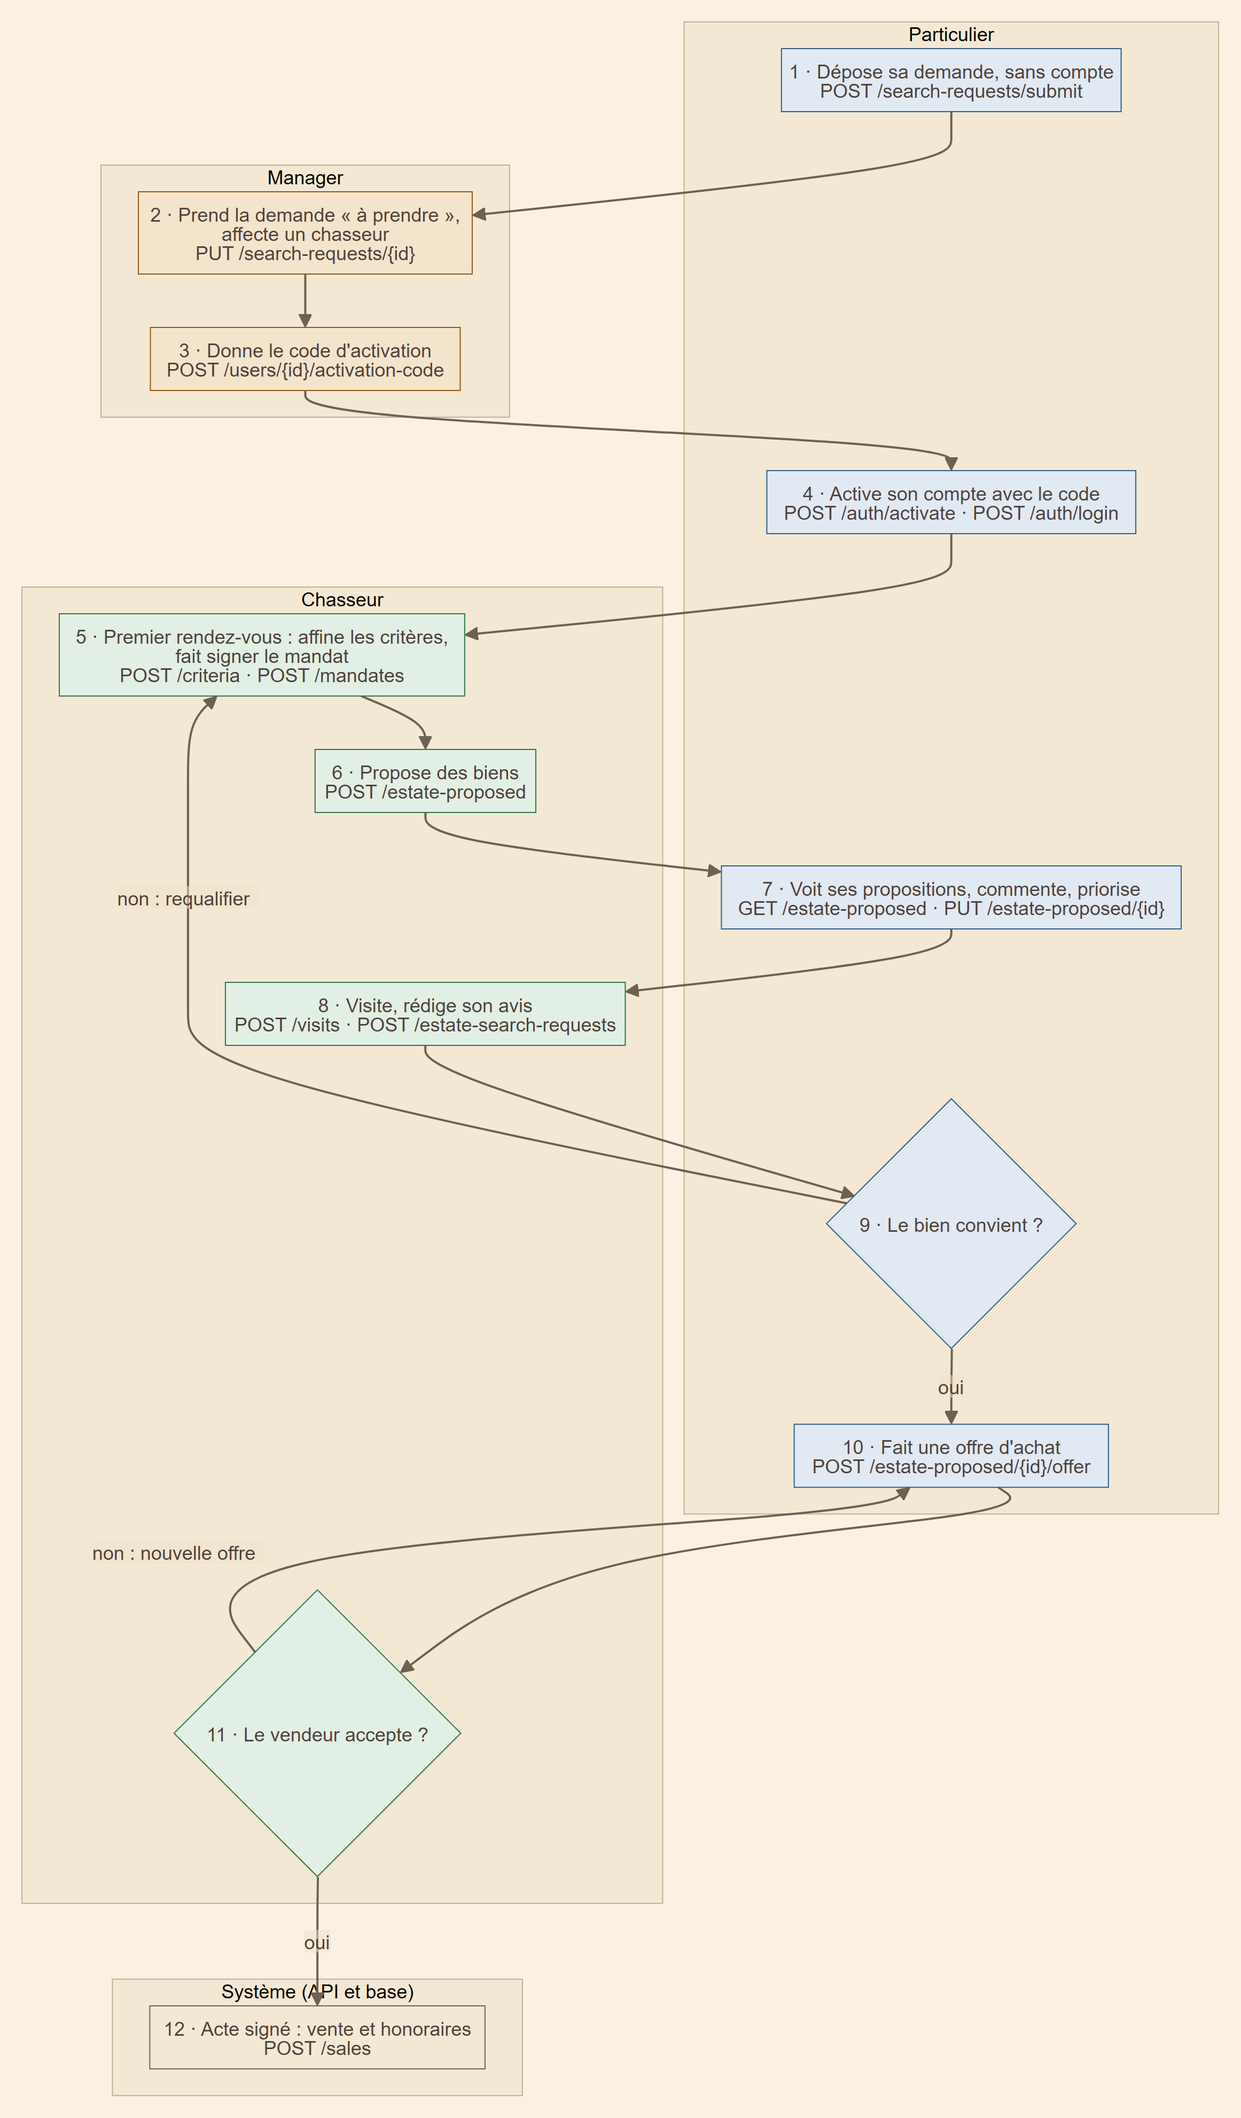
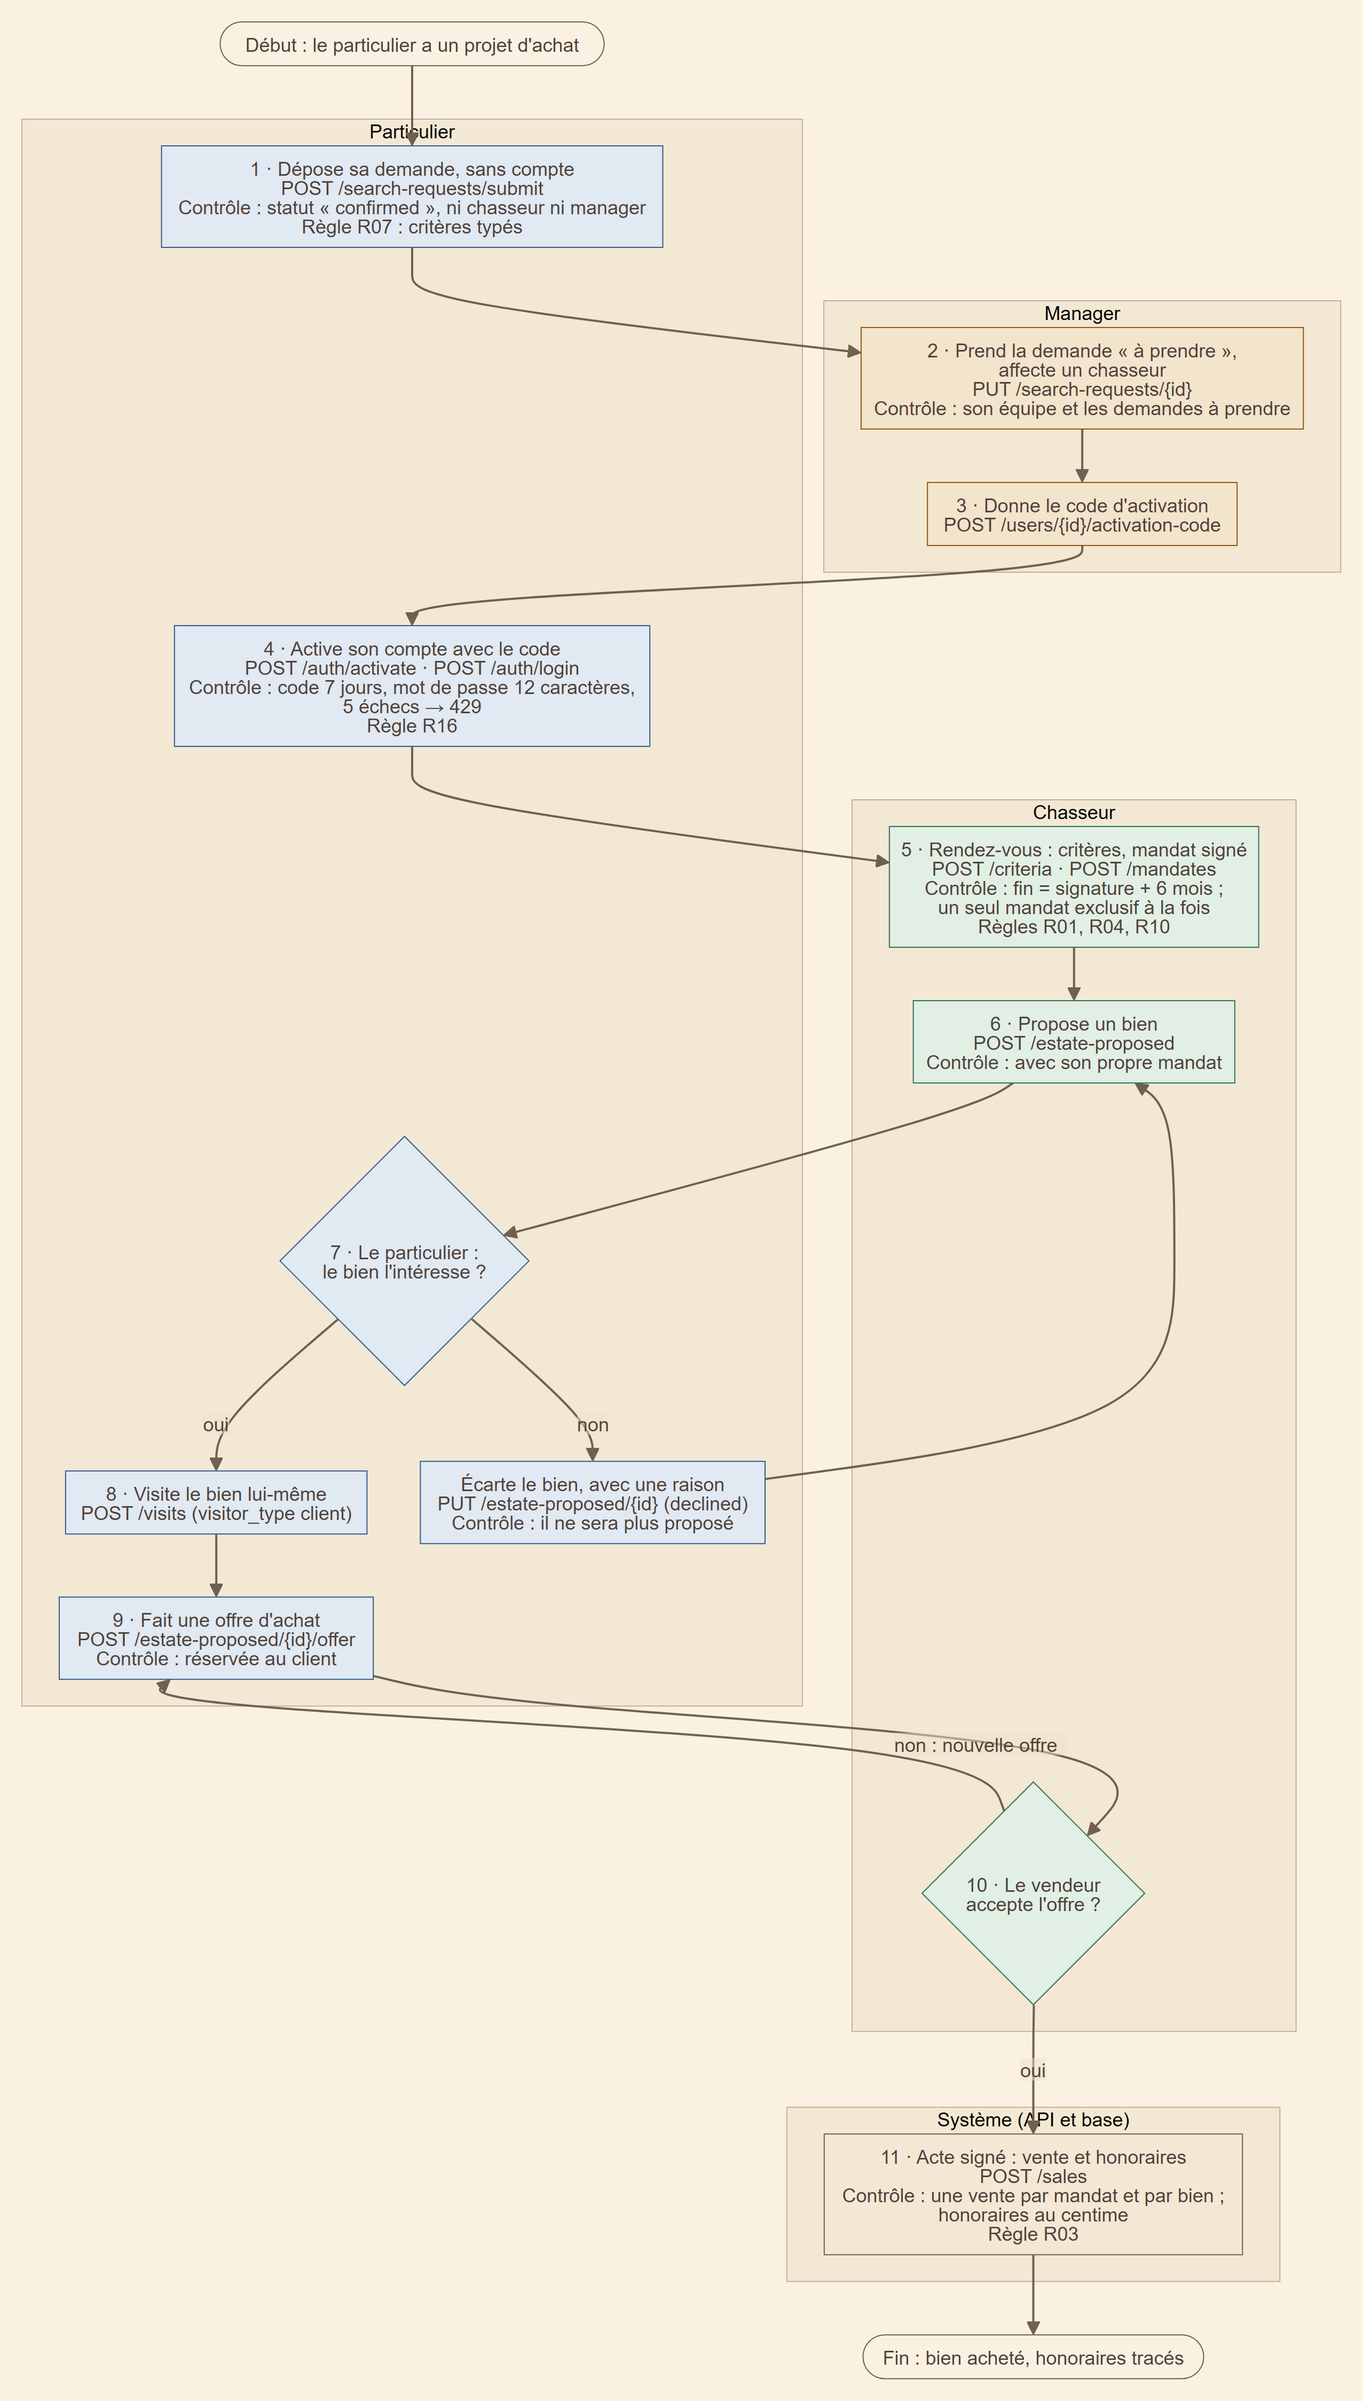
docs(application): processus métier v2, l'existant et ses failles, deux parcours cibles complets
Après la relecture de Gabriel : schéma de l'existant (failles R01 à R16 sur les étapes) ; parcours cibles avec début et fin, contrôles et failles réglées sur chaque étape ; chemins ajoutés : bien écarté, visite du particulier, mandat échu renouvelé, paiement refusé ; l'offre rendue au client (route réservée au rôle Client). Valeurs vérifiées dans le schéma v3.

diff --git a/livrables/4-application/processus-metier.md b/livrables/4-application/processus-metier.md
@@ -1,119 +1,163 @@
-# Processus métier — du parcours au système
+# Processus métier — de l'existant au système cible
 
 > Compétence : « Schématiser les processus métier en tenant compte des contraintes, de l'existant et des vulnérabilités » — schémas de processus, du parcours utilisateur au processus système (`documents utiles/TRACABILITE-COMPETENCES.md:49` et `:62`, StarterPack). Phases 2 à 4.
-> Rédigé le 2026-11-19 par le Glaude, à la demande de Gabriel. Sources : le `Readme.md` du sujet (les parcours), les user stories (`user-stories/01` à `07`), et les routes réelles de l'API (`GET /openapi.json`, `Fil-Rouge-API` au commit `31094a8`).
-> Images : [`images/processus-particulier.png`](images/processus-particulier.png), [`images/processus-chasseur.png`](images/processus-chasseur.png), rendues depuis le Mermaid ci-dessous.
+> Version 2 du 2026-11-19, rédigée par le Glaude après la relecture de Gabriel (v1 : l'existant n'était pas dessiné, les failles et les contraintes n'étaient pas sur le schéma, des chemins manquaient).
+> Sources : le `Readme.md` du sujet (les parcours), l'audit de la phase 1 (`livrables/1-audit/`, failles `R01` à `R16`), les user stories (`user-stories/01` à `07`), le schéma v3 (valeurs des statuts, `docker/init-v3/01_create_fil_rouge_immobilier.sql`) et les routes réelles de l'API (`GET /openapi.json`, `Fil-Rouge-API` au commit `31094a8`).
+> Images : [`images/processus-existant.png`](images/processus-existant.png), [`images/processus-particulier.png`](images/processus-particulier.png), [`images/processus-chasseur.png`](images/processus-chasseur.png).
 
-**Comment lire.** Un couloir par acteur. Chaque étape porte la **route de l'API** qui la réalise. Les losanges sont des décisions. Sous chaque schéma, un tableau donne pour chaque étape la **contrainte** qui s'applique, ce que faisait **l'existant**, et la **faille de l'audit** qu'elle règle (`R01` à `R16`, `livrables/1-audit/02-registre-anomalies-risques.md`).
+**Comment lire.**
+- Un couloir par acteur. Un ovale marque le **début** ou la **fin** ; un losange, une **décision** (le couloir dit qui décide).
+- Sur chaque étape, la ligne **« Contrôle »** dit la contrainte qui s'y applique, et la ligne **« Règle »** la faille de l'audit qu'elle corrige.
+- Toute requête passe d'abord par les contrôles de l'API : clé et jeton (`401`), entrée valide (`422`), rôle autorisé (`403`), « le sien » (`404`). Ils ne sont pas répétés sur chaque étape.
 
 ---
 
-## 1. Le parcours du particulier
+## 1. L'existant, au 25/07/2026
 
 ```mermaid
 flowchart TB
+    D0(["Début : un prospect cherche un bien"])
+    subgraph E_PROS["Prospect"]
+        E1["Remplit le formulaire du site web<br/>(hors périmètre)"]
+    end
+    subgraph E_SI["SI hérité"]
+        E2["Backend : code perdu, développeur absent<br/>Faille R09"]
+        E3["Table utilisateurs : clients et chasseurs mêlés,<br/>données en clair<br/>Failles R02, R05, R06, R16"]
+        E4["Table mandats : critères en texte libre,<br/>ni date de signature ni date de fin,<br/>statut « actif » jamais mis à jour<br/>Failles R01, R04, R07"]
+        E5["Taux de commission fixe par chasseur<br/>Faille R08"]
+    end
+    subgraph E_PAP["Hors numérique"]
+        E6["Mandat signé rangé dans l'armoire,<br/>sans lien avec la base<br/>Faille R10"]
+        E7["Le notaire encaisse les honoraires :<br/>aucune trace dans le SI<br/>Faille R03"]
+    end
+    F0(["Fin : la vente existe, le SI ne la connaît pas"])
+
+    D0 --> E1 --> E2 --> E3 --> E4 --> E6 --> E7 --> F0
+    E4 -.-> E5
+
+    classDef faille fill:#f6dcd5,stroke:#b3261e,color:#50433b
+    classDef hors fill:#efe6d6,stroke:#97a0af,color:#50433b
+    classDef bord fill:#faf1e2,stroke:#6e6151,color:#50433b
+    class E2,E3,E4,E5,E6,E7 faille
+    class E1 hors
+    class D0,F0 bord
+```
+
+Ce que montre l'existant : rien ne relie la demande, le mandat signé, la vente et les honoraires. Chaque flèche passe par une faille ; la cible les ferme une à une.
+
+---
+
+## 2. Le parcours cible du particulier
+
+```mermaid
+flowchart TB
+    D1(["Début : le particulier a un projet d'achat"])
     subgraph PART["Particulier"]
-        P1["1 · Dépose sa demande, sans compte<br/>POST /search-requests/submit"]
-        P4["4 · Active son compte avec le code<br/>POST /auth/activate · POST /auth/login"]
-        P7["7 · Voit ses propositions, commente, priorise<br/>GET /estate-proposed · PUT /estate-proposed/{id}"]
-        P9{"9 · Le bien convient ?"}
-        P10["10 · Fait une offre d'achat<br/>POST /estate-proposed/{id}/offer"]
+        P1["1 · Dépose sa demande, sans compte<br/>POST /search-requests/submit<br/>Contrôle : statut « confirmed », ni chasseur ni manager<br/>Règle R07 : critères typés"]
+        P4["4 · Active son compte avec le code<br/>POST /auth/activate · POST /auth/login<br/>Contrôle : code 7 jours, mot de passe 12 caractères,<br/>5 échecs → 429<br/>Règle R16"]
+        P7{"7 · Le particulier :<br/>le bien l'intéresse ?"}
+        P8["8 · Visite le bien lui-même<br/>POST /visits (visitor_type client)"]
+        P9["9 · Fait une offre d'achat<br/>POST /estate-proposed/{id}/offer<br/>Contrôle : réservée au client"]
+        P7N["Écarte le bien, avec une raison<br/>PUT /estate-proposed/{id} (declined)<br/>Contrôle : il ne sera plus proposé"]
     end
     subgraph MAN["Manager"]
-        M2["2 · Prend la demande « à prendre »,<br/>affecte un chasseur<br/>PUT /search-requests/{id}"]
+        M2["2 · Prend la demande « à prendre »,<br/>affecte un chasseur<br/>PUT /search-requests/{id}<br/>Contrôle : son équipe et les demandes à prendre"]
         M3["3 · Donne le code d'activation<br/>POST /users/{id}/activation-code"]
     end
     subgraph CHA["Chasseur"]
-        C5["5 · Premier rendez-vous : affine les critères,<br/>fait signer le mandat<br/>POST /criteria · POST /mandates"]
-        C6["6 · Propose des biens<br/>POST /estate-proposed"]
-        C8["8 · Visite, rédige son avis<br/>POST /visits · POST /estate-search-requests"]
-        C11{"11 · Le vendeur accepte ?"}
+        C5["5 · Rendez-vous : critères, mandat signé<br/>POST /criteria · POST /mandates<br/>Contrôle : fin = signature + 6 mois ;<br/>un seul mandat exclusif à la fois<br/>Règles R01, R04, R10"]
+        C6["6 · Propose un bien<br/>POST /estate-proposed<br/>Contrôle : avec son propre mandat"]
+        C10{"10 · Le vendeur<br/>accepte l'offre ?"}
     end
     subgraph SYS["Système (API et base)"]
-        S12["12 · Acte signé : vente et honoraires<br/>POST /sales"]
+        S11["11 · Acte signé : vente et honoraires<br/>POST /sales<br/>Contrôle : une vente par mandat et par bien ;<br/>honoraires au centime<br/>Règle R03"]
     end
+    F1(["Fin : bien acheté, honoraires tracés"])
 
-    P1 --> M2 --> M3 --> P4 --> C5 --> C6 --> P7 --> C8 --> P9
-    P9 -->|"non : requalifier"| C5
-    P9 -->|"oui"| P10 --> C11
-    C11 -->|"non : nouvelle offre"| P10
-    C11 -->|"oui"| S12
+    D1 --> P1 --> M2 --> M3 --> P4 --> C5 --> C6 --> P7
+    P7 -->|"non"| P7N --> C6
+    P7 -->|"oui"| P8 --> P9 --> C10
+    C10 -->|"non : nouvelle offre"| P9
+    C10 -->|"oui"| S11 --> F1
 
     classDef part fill:#e1e9f2,stroke:#2f5d8c,color:#50433b
     classDef man fill:#f3e4cc,stroke:#8f5a0f,color:#50433b
     classDef cha fill:#e2efe4,stroke:#2d7551,color:#50433b
     classDef sys fill:#f3e8d4,stroke:#6e6151,color:#50433b
-    class P1,P4,P7,P9,P10 part
+    classDef bord fill:#faf1e2,stroke:#6e6151,color:#50433b
+    class P1,P4,P7,P7N,P8,P9 part
     class M2,M3 man
-    class C5,C6,C8,C11 cha
-    class S12 sys
+    class C5,C6,C10 cha
+    class S11 sys
+    class D1,F1 bord
 ```
-
-| # | Contrainte qui s'applique | L'existant | Faille réglée |
-|---|---|---|---|
-| 1 | aucun compte exigé ; la demande part « à prendre » (ni chasseur ni manager) | le site web écrivait les critères en texte libre | R07 |
-| 2 | le manager ne voit que son équipe et les demandes « à prendre » | aucune affectation tracée | — |
-| 3-4 | code valable 7 jours, à usage unique ; mot de passe de 12 caractères au moins ; 5 échecs par email → `429` | aucun compte client | R16 |
-| 5 | fin = signature + 6 mois, contrôlée par la base ; un seul mandat exclusif à la fois ; critères versionnés | mandat papier dans l'armoire ; statut « actif » faux ; aucune date de fin | R01, R04, R10 |
-| 6-7 | le particulier ne voit **que ses** propositions (la ligne d'un autre rend `404`) ; un bien écarté n'est plus proposé | rien : aucun bien en base | R03, R16 |
-| 8 | une visite s'enregistre une fois faite, pendant la durée du mandat | rien | — |
-| 10-11 | seul le client fait l'offre ; après un refus du vendeur, une nouvelle offre reste possible | rien | — |
-| 12 | une seule vente par mandat et par bien ; honoraires en euros au centime (`NUMERIC(12,2)`) | les honoraires n'existaient nulle part | R03 |
 
 ---
 
-## 2. Le parcours du chasseur
+## 3. Le parcours cible du chasseur
 
 ```mermaid
 flowchart TB
+    D2(["Début : une demande est affectée"])
     subgraph MAN2["Manager"]
-        A1["1 · Affecte la demande à un chasseur<br/>PUT /search-requests/{id}"]
+        A1["1 · Affecte la demande<br/>PUT /search-requests/{id}"]
     end
     subgraph CHA2["Chasseur"]
-        A2{"2 · Accepte la demande ?"}
-        A3["3 · Rendez-vous, critères, mandat<br/>POST /criteria · POST /mandates"]
-        A4["4 · Demande une sélection de biens au moteur<br/>de suggestion à règles (Elasticsearch)<br/>POST /search-requests/{id}/suggestions"]
+        A2{"2 · Le chasseur :<br/>accepte la demande ?"}
+        A3["3 · Rendez-vous : critères versionnés, mandat<br/>POST /criteria · POST /mandates<br/>Contrôle : fiches séparées, une fiche par compte<br/>Règles R02, R05, R06"]
+        A4["4 · Demande une sélection de biens<br/>POST /search-requests/{id}/suggestions<br/>Contrôle : 10 biens au plus, un bien écarté exclu<br/>Règle R07"]
         A5["5 · Garde des biens, donne son avis,<br/>joint photo, audio ou vidéo<br/>POST /estate-search-requests · POST /review-media"]
-        A6["6 · Propose au client<br/>POST /estate-proposed"]
-        A7{"7 · Le client est intéressé ?"}
-        A8["8 · Organise la visite, transmet l'offre<br/>POST /visits"]
+        A6["6 · Propose au client, puis visite<br/>POST /estate-proposed · POST /visits (hunter)"]
+        A7{"7 · Le mandat est-il<br/>arrivé à échéance ?"}
+        A8["Renouvelle le mandat<br/>POST /mandates (id_mandate_parent)<br/>Contrôle : la note baisse au calcul suivant"]
     end
     subgraph SYS2["Système (API et base)"]
-        B2["9 · Vente enregistrée<br/>POST /sales"]
-        B3["10 · Rémunération calculée une fois<br/>POST /sales/{id}/payment (Admin)"]
-        B4["11 · Paiement programmé, puis payé ;<br/>note de performance recalculée<br/>PUT /payments/{id}"]
+        B1["8 · Vente enregistrée, avec son origine<br/>POST /sales (hunter ou client_alone)"]
+        B2{"9 · Le système :<br/>le chasseur a-t-il droit<br/>à une rémunération ?"}
+        B3["10 · Paiement annoncé, montant figé<br/>POST /sales/{id}/payment (Admin)<br/>Contrôle : une seule fois, sinon 409<br/>Règle R08 : barème par tranches"]
+        B4["11 · Programmé, puis payé ;<br/>note de performance recalculée<br/>PUT /payments/{id}<br/>Règle R03"]
+        B5["Paiement refusé, montant 0<br/>(non exclusif, le client a trouvé seul)"]
     end
+    F2(["Fin : le chasseur est payé, ou le refus est tracé"])
 
-    A1 --> A2
-    A2 -->|"non"| A1
+    D2 --> A1 --> A2
+    A2 -->|"non : redevient à prendre"| A1
     A2 -->|"oui"| A3 --> A4 --> A5 --> A6 --> A7
-    A7 -->|"non : requalifier"| A3
-    A7 -->|"oui"| A8 --> B2 --> B3 --> B4
+    A7 -->|"oui, sans vente"| A8 --> A4
+    A7 -->|"non, une offre aboutit"| B1 --> B2
+    B2 -->|"oui"| B3 --> B4 --> F2
+    B2 -->|"non"| B5 --> F2
 
     classDef man fill:#f3e4cc,stroke:#8f5a0f,color:#50433b
     classDef cha fill:#e2efe4,stroke:#2d7551,color:#50433b
     classDef sys fill:#f3e8d4,stroke:#6e6151,color:#50433b
+    classDef bord fill:#faf1e2,stroke:#6e6151,color:#50433b
     class A1 man
     class A2,A3,A4,A5,A6,A7,A8 cha
-    class B2,B3,B4 sys
+    class B1,B2,B3,B4,B5 sys
+    class D2,F2 bord
 ```
-
-| # | Contrainte qui s'applique | L'existant | Faille réglée |
-|---|---|---|---|
-| 1-2 | un refus rend la demande « à prendre » ; le chasseur ne voit que ses demandes | aucune affectation tracée | — |
-| 3 | un chasseur et un client sont deux fiches séparées ; un compte n'a qu'une fiche (3 triggers) | un chasseur enregistré comme client du mandat 13 | R02, R05, R06 |
-| 4 | suggestions limitées à 10 biens, classées par pertinence ; un bien écarté n'est plus proposé | les critères en texte libre, illisibles par une machine | R07 |
-| 5 | l'avis peut être un texte seul ; les médias ont leur propre table | rien | — |
-| 7 | à noter : la sélection **chaque jour** n'est pas planifiée : le chasseur la demande (backlog, Should) | rien | — |
-| 9 | une seule vente par mandat et par bien | les ventes n'existaient pas | R03 |
-| 10 | calcul du sujet (barème par tranches, ancienneté, performance) ; un second appel rend `409` | un taux fixe par chasseur | R08 |
-| 11 | le montant annoncé est figé jusqu'au paiement ; un refus met le montant à 0 | aucune trace du paiement | R03 |
 
 ---
 
-## 3. Ce que les schémas ne montrent pas
+## 4. De l'existant à la cible : chaque faille, et l'étape qui la ferme
 
-- **Les notifications** (email, alerte) : hors périmètre ; le code d'activation remplace l'email de bienvenue (backlog, Won't).
-- **La facture** : hors périmètre (Product Owner, 07/10).
-- **Le notaire** : l'acte n'est pas géré ; sa date et son prix sont des entrées du calcul.
-- **Le futur avec l'IA** (user stories 08 et 09) : conçu dans `schema-programme-ia.md` et `conception-matching-features.md`, pas codé.
+| Faille de l'audit | Dans l'existant | Étape cible qui la ferme |
+|---|---|---|
+| R01 statut « actif » faux | jamais mis à jour | particulier 5, chasseur 7 : la fin est calculée et contrôlée ; le renouvellement crée un nouveau mandat lié à l'ancien |
+| R02, R05, R06 rôles mêlés | une seule table | chasseur 3 : une fiche par rôle, un compte n'en a qu'une |
+| R03 honoraires sans trace | chez le notaire seulement | particulier 11, chasseur 8 à 11 : vente, honoraires, paiement |
+| R04 pas de date de fin | absente | particulier 5 : fin = signature + 6 mois |
+| R07 critères en texte libre | « T3 Ecusson, budget… » | particulier 1, chasseur 3-4 : critères typés et versionnés, lus par le moteur |
+| R08 taux fixe | un taux par chasseur | chasseur 10 : barème par tranches, ancienneté, performance |
+| R09 code perdu | backend sans source | toutes : une API sur GitHub, couverte par 1 116 tests |
+| R10 armoire papier | aucun lien | particulier 5 : le mandat est en base, avec sa date et son mode de signature |
+| R16 données en clair | sans droits | particulier 4 : comptes et droits par rôle ; « le sien » sur chaque lecture |
+
+---
+
+## 5. Limites connues
+
+- **La sélection n'est pas quotidienne** : le chasseur la demande (étape 4) ; aucune tâche planifiée ne la lance chaque jour (backlog, Should).
+- **L'échéance du mandat n'est pas détectée seule** : le renouvellement se fait à la main, et la note baisse au calcul suivant (backlog, Should).
+- **Hors périmètre** : les notifications (le code d'activation remplace l'email), la facture (Product Owner, 07/10), le notaire (sa date et son prix sont des entrées du calcul), l'IA générative (user stories 08 et 09, conçues dans `schema-programme-ia.md` et `conception-matching-features.md`).
